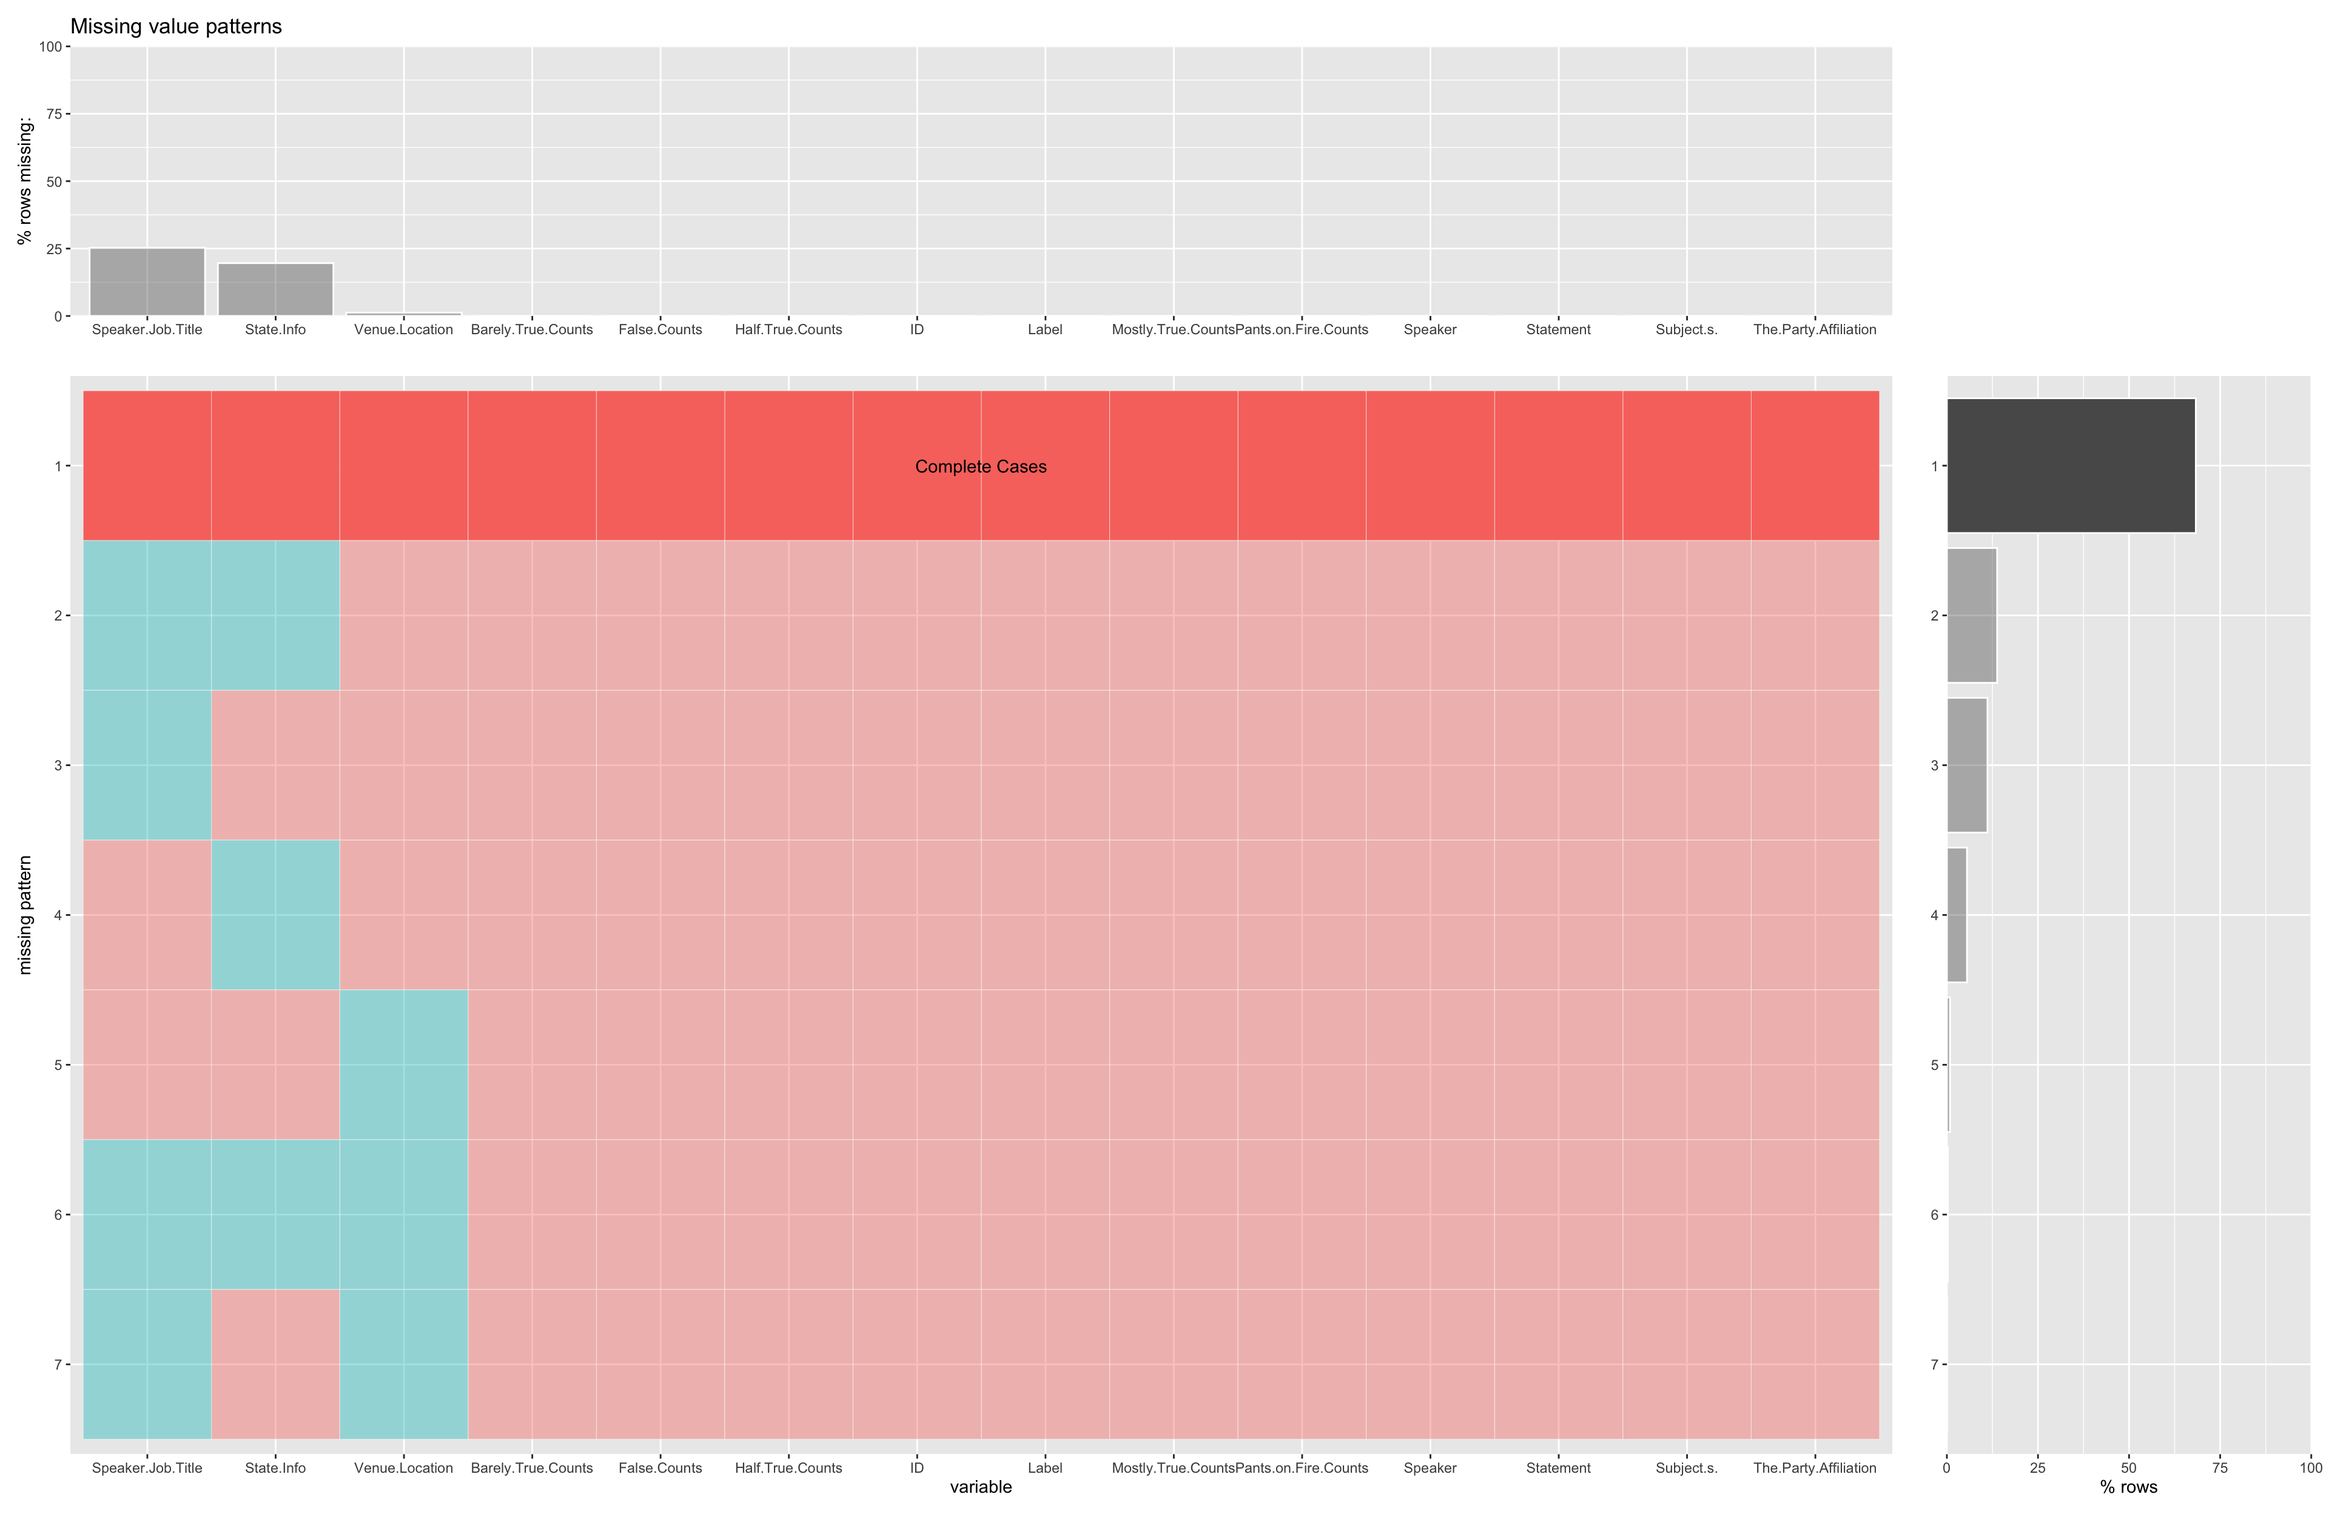
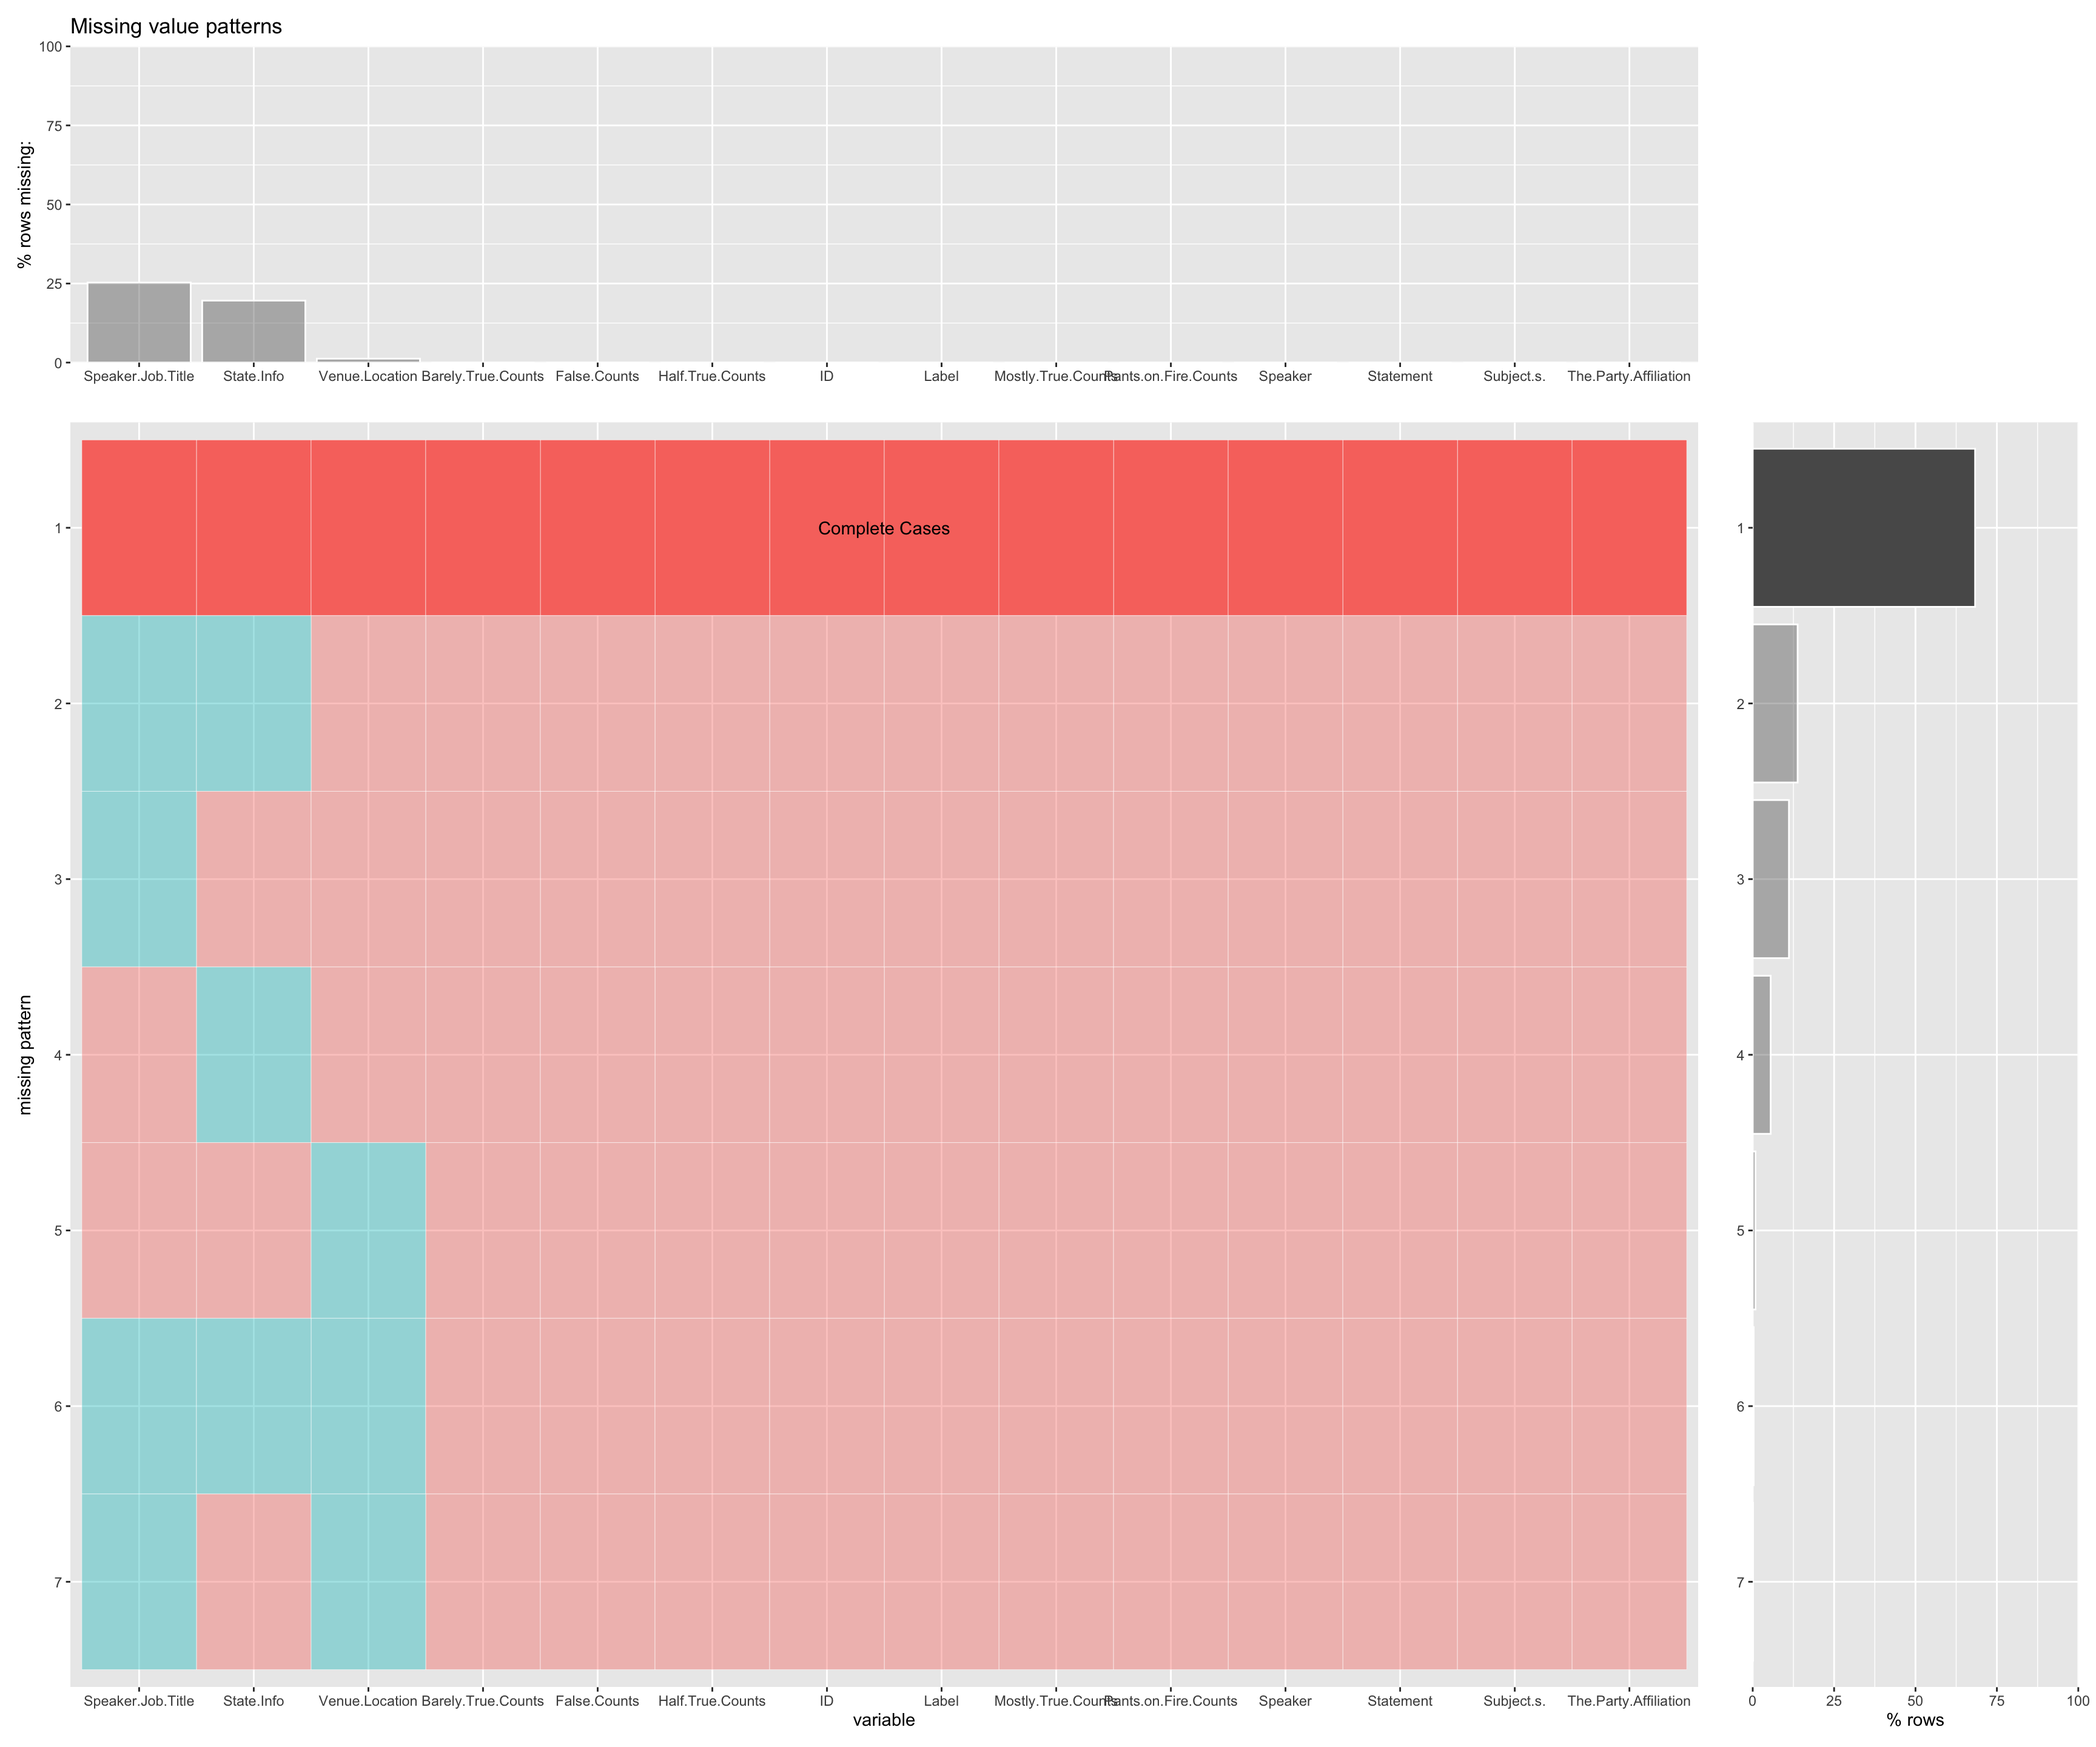
Update Final - Missing Values

diff --git a/docs/missing-values.html b/docs/missing-values.html
@@ -152,9 +152,11 @@
 ## 6 true                      0.233</code></pre>
 <p><strong>Percentage of Missing Values for each Label in Test dataset </strong></p>
 <p><img src="finalproj_files/figure-html/unnamed-chunk-14-1.png" width="672" /></p>
-<p><img src="finalproj_files/figure-html/unnamed-chunk-16-1.png" width="672" />
-* This graph ideally would have missed a feature if all the values were missing for it, but here for our dataset, we didn’t observe any feature for which all rows in the column were missing.
-* In this graph, Speaker Job Title and State Info was quite evident, but at the same time, this graph also tells us that there were few values missing for the Venue/Location.</p>
+<p><img src="finalproj_files/figure-html/unnamed-chunk-16-1.png" width="672" /></p>
+<ul>
+<li><p>This graph ideally would have missed a feature if all the values were missing for it, but here for our dataset, we didn’t observe any feature for which all rows in the column were missing.</p></li>
+<li><p>In this graph, Speaker Job Title and State Info was quite evident, but at the same time, this graph also tells us that there were few values missing for the Venue/Location.</p></li>
+</ul>
 <pre><code>## [1] &quot;nothing&quot;                                      
 ## [2] &quot;Speaker.Job.Title&quot;                            
 ## [3] &quot;State.Info&quot;                                   
@@ -185,13 +187,15 @@ Column-Wise</li>
 <ul>
 <li>Note, we imported this package from github - <a href="https://github.com/heike/extracat#installation" class="uri">https://github.com/heike/extracat#installation</a></li>
 </ul>
-<p><img src="finalproj_files/figure-html/unnamed-chunk-19-1.png" width="1920" />
-* This is missing value plot for our dataset similar to the question2
-* The first plot on the top shows % of missing value for each feature
-* The second plot on the bottom (both left and right) and rigth) shows various pattern
+<p><img src="finalproj_files/figure-html/unnamed-chunk-19-1.png" width="1728" /></p>
+<ul>
+<li><p>This is missing value plot for our dataset similar to the question2</p></li>
+<li><p>The first plot on the top shows % of missing value for each feature</p></li>
+<li><p>The second plot on the bottom (both left and right) and rigth) shows various pattern
 –&gt; Most of the rows in the dataset has no missing values
 –&gt; Next, we have a pattern for rows having Speaker Job Title and State Info missing
-–&gt; Next in order, we have rows which have only Speaker Job Title, only State Info and only Venue/Location missing.</p>
+–&gt; Next in order, we have rows which have only Speaker Job Title, only State Info and only Venue/Location missing.</p></li>
+</ul>
 <p><strong>Ratio of Missing Values for each “The Party Affiliation” in Test dataset </strong></p>
 <pre><code>## # A tibble: 16 × 3
 ##    `The Party Affiliation` `Speaker Job Title` `State Info`
@@ -215,16 +219,16 @@ Column-Wise</li>
 <p><strong>Percentage of Missing Values for each Label in Test dataset </strong></p>
 <p><img src="finalproj_files/figure-html/unnamed-chunk-21-1.png" width="672" /></p>
 <p><strong>Heatmap </strong></p>
-<p><img src="finalproj_files/figure-html/unnamed-chunk-23-1.png" width="768" />
-** Here we took another feature “The Party Affiliation” and using heatmap, tried noticing missing patterns for this feature.
-** The Speaker Job Title had completely missing values for the following “The Party Affiliation” feature[“Organization, none, newsmaker, journalist, government-body and democrat”]
-** The State Info was completly missing for the following “The Party Affiliation” feature [“none”, “journalist” and “democrat”]</p>
+<p><img src="finalproj_files/figure-html/unnamed-chunk-23-1.png" width="768" /></p>
+<p>** Here we took another feature “The Party Affiliation” and using heatmap, tried noticing missing patterns for this feature.</p>
+<p>** The Speaker Job Title had completely missing values for the following “The Party Affiliation” feature[“Organization, none, newsmaker, journalist, government-body and democrat”]</p>
+<p>** The State Info was completly missing for the following “The Party Affiliation” feature [“none”, “journalist” and “democrat”]</p>
 <p><strong>Number of Missing Values of Speaker Job Title by State_Info grouped by Label</strong></p>
 <p><img src="finalproj_files/figure-html/unnamed-chunk-24-1.png" width="768" /></p>
 <ul>
-<li>For most of the states, the label half-true and true have zero missing values</li>
-<li>Florida State has maximum missing values for the label missing true.</li>
-<li>Here we also had missing values in state, which we categorized has Unknown, which apparently together also has max missing values</li>
+<li><p>For most of the states, the label half-true and true have zero missing values</p></li>
+<li><p>Florida State has maximum missing values for the label missing true.</p></li>
+<li><p>Here we also had missing values in state, which we categorized has Unknown, which apparently together also has max missing values</p></li>
 </ul>
 
 </div>
